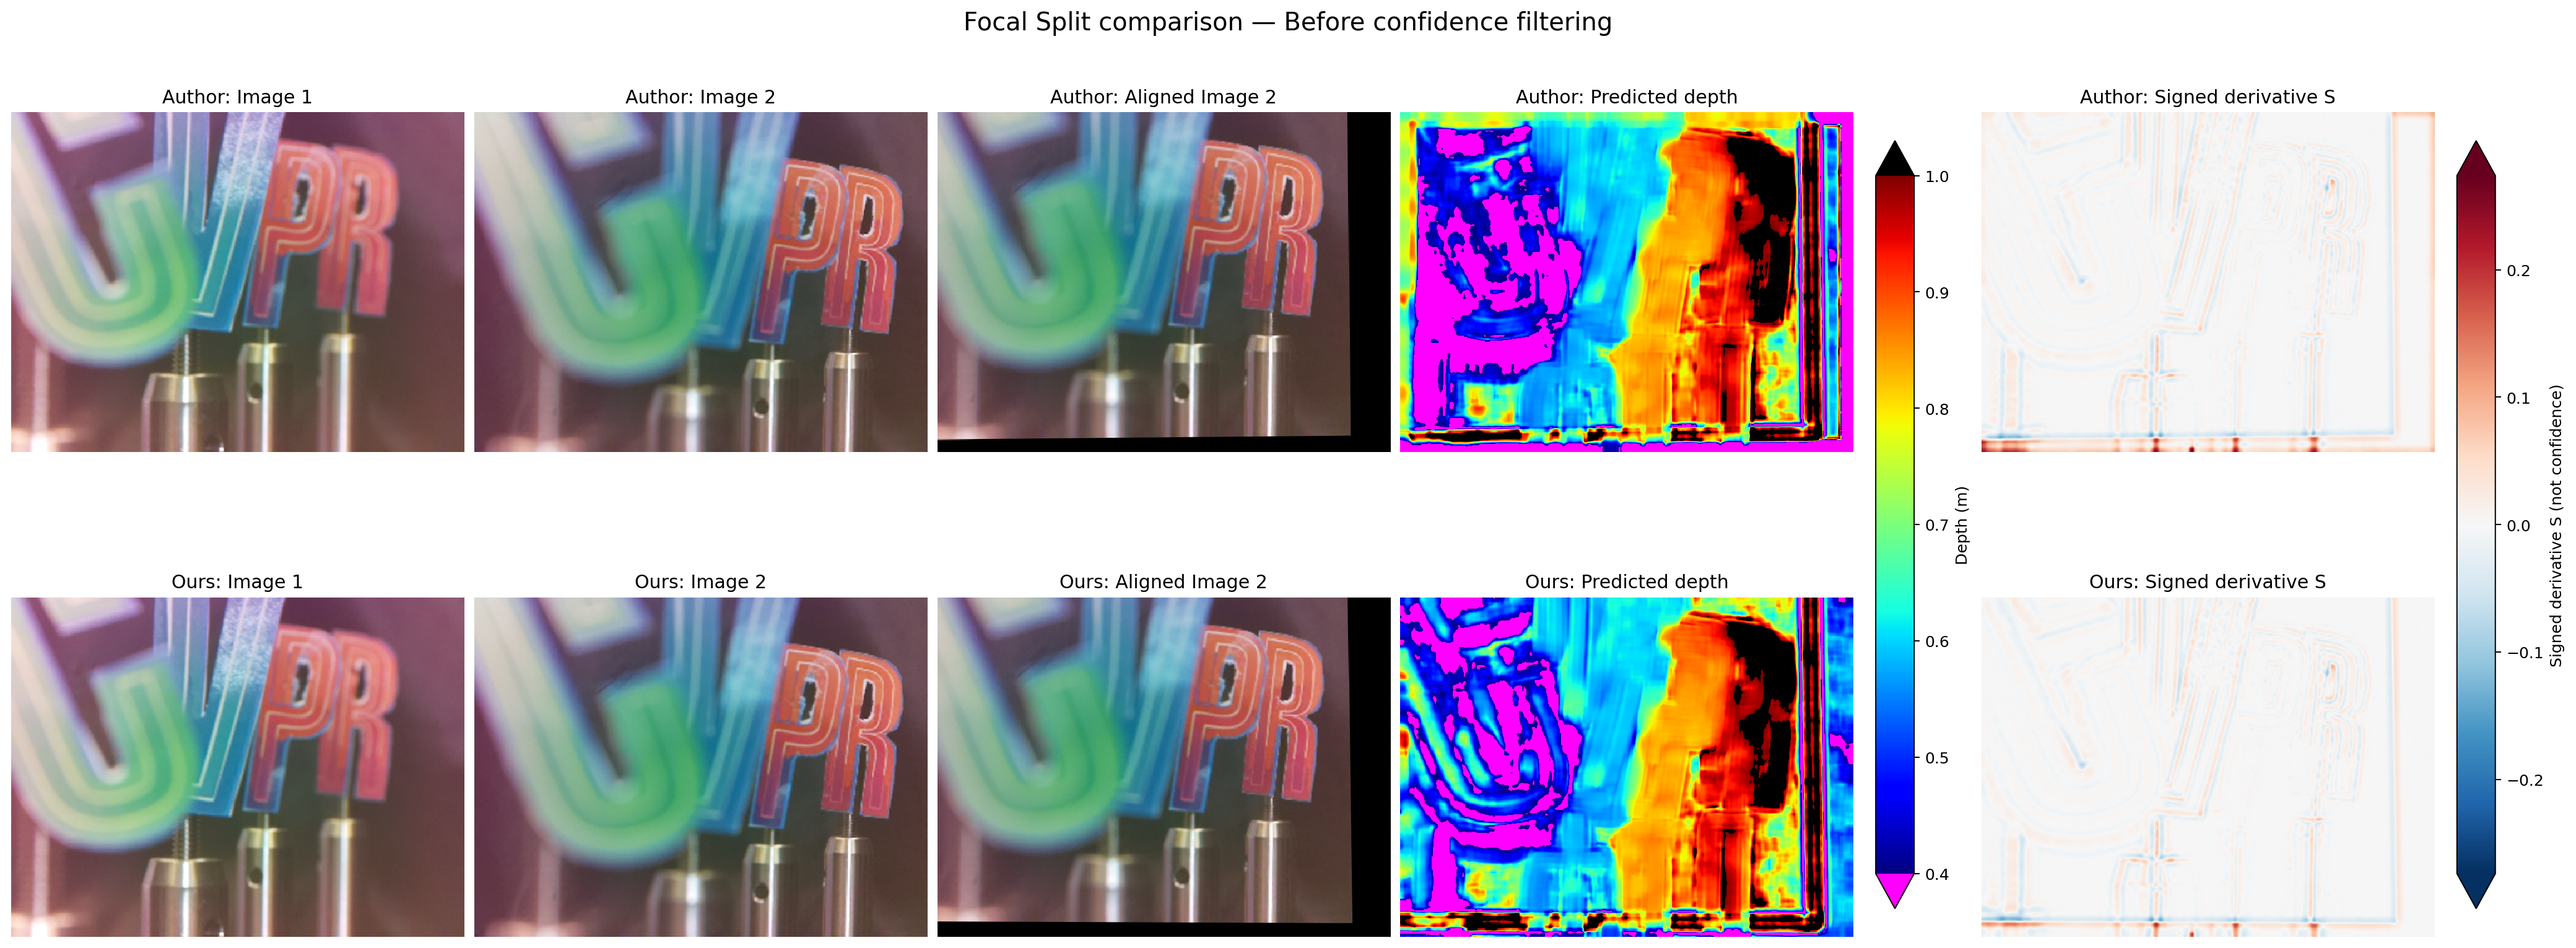
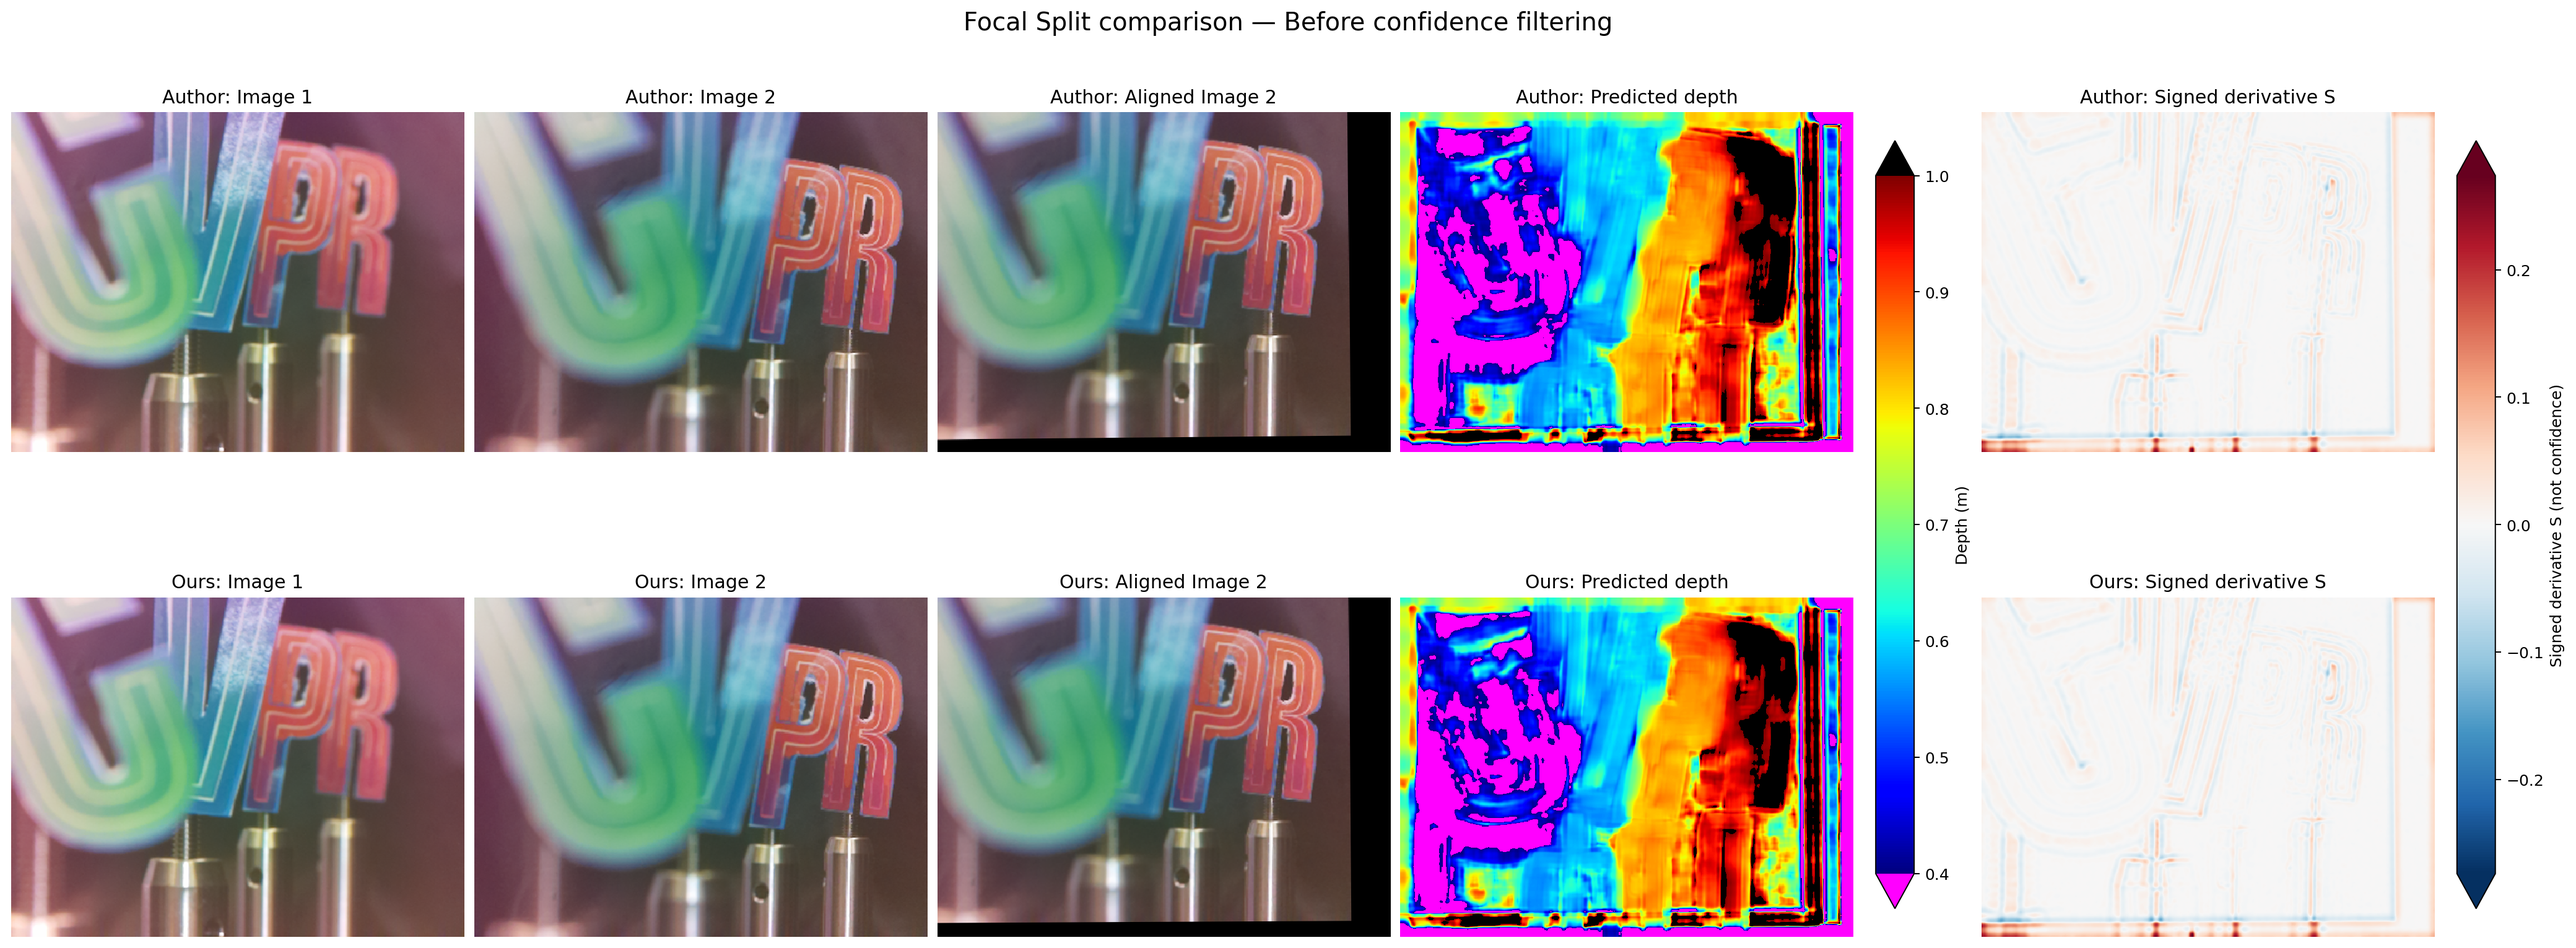
outputs_added

Changed region(s): [[0.5312, 0.614, 0.7188, 1.0], [0.75, 0.9517, 0.9375, 1.0], [0.3438, 0.614, 0.4375, 0.7368]]

diff --git a/focal_split.py b/focal_split.py
@@ -23,7 +23,7 @@ def aberration_correction(green_image, kernel_size=21):
         green_image = green_image.astype(np.float32)
 
     kernel = np.ones((kernel_size, kernel_size), np.float32) / (kernel_size ** 2) #1/21*21
-    convolutioned_img = cv2.filter2D(green_image, -1, kernel)
+    convolutioned_img = cv2.filter2D(green_image, -1, kernel, borderType=cv2.BORDER_CONSTANT)
     filtered_out_background = green_image - convolutioned_img
     return filtered_out_background
 
@@ -56,7 +56,7 @@ def sift_feature_extraction(image):
     return keypoints, descriptors
 
 #6 Descriptor matching and Homography estimation; apply RANSAC algorithm
-def descriptor_matching_Homography(image1, image2, ratio=0.75):
+def descriptor_matching_Homography(image1, image2, ratio=0.8):
     keypoints1, descriptors1 = sift_feature_extraction(image1)
     keypoints2, descriptors2 = sift_feature_extraction(image2)
     bf = cv2.BFMatcher()
@@ -341,7 +341,7 @@ def display_comparison(
     return fig
 
 def main():
-    pkl_path = 'CVPR.pkl'  
+    pkl_path = 'keyboard.pkl'  
     with open(pkl_path, "rb") as f:
         dataset = pickle.load(f)
 
@@ -354,6 +354,7 @@ def main():
     warped_image = warp_image(image2, Homography)
 
     green1, green2 = convert_to_green(image1, warped_image)
+    # green1, green2 = convert_to_green(image1, dataset[2])  # Use the aligned image from the dataset
     filtered1 = aberration_correction(green1)
     filtered2 = aberration_correction(green2)
 
@@ -378,10 +379,10 @@ def main():
         our_aligned=warped_image,
         our_depth=depth,
         our_S=I_s_approx,
-        confidence_threshold=None,
+        confidence_threshold=1e-5,
         rotate180=True,
         save_path=(
-            "comparison_all.png"
+            "keyboard_comparison_all_confidence_threshold.png"
         ),
     )
 
